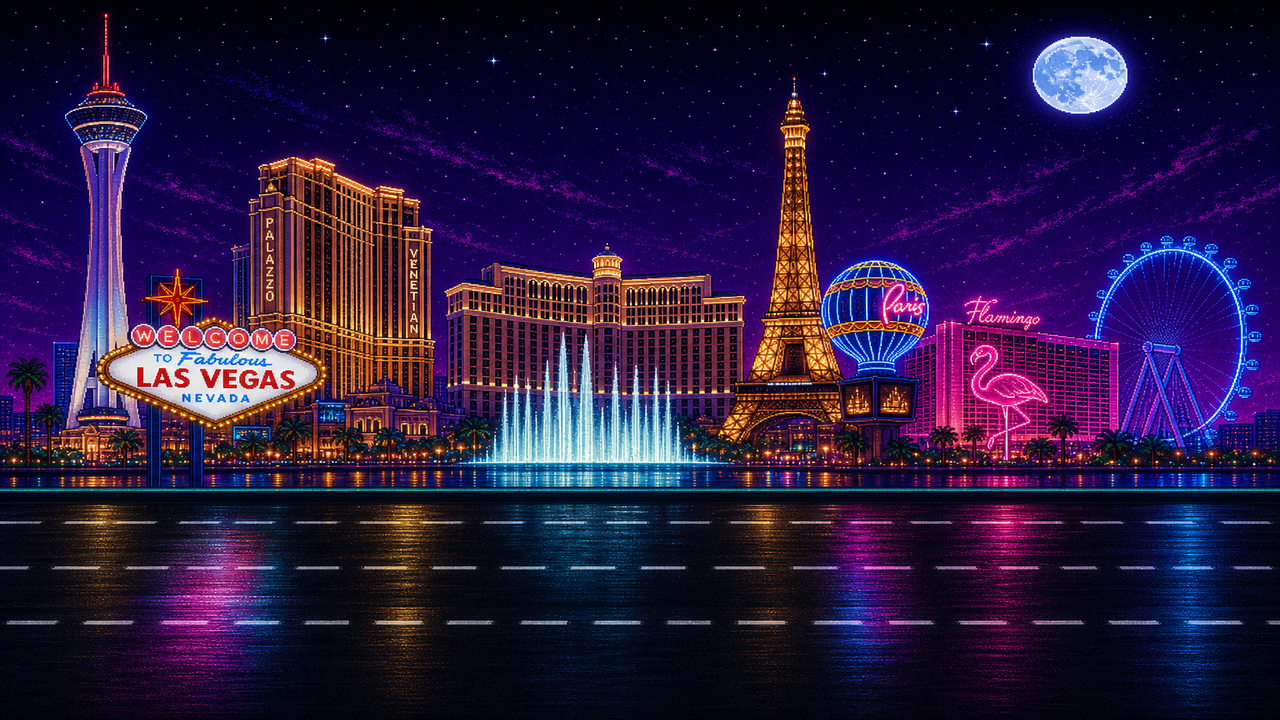
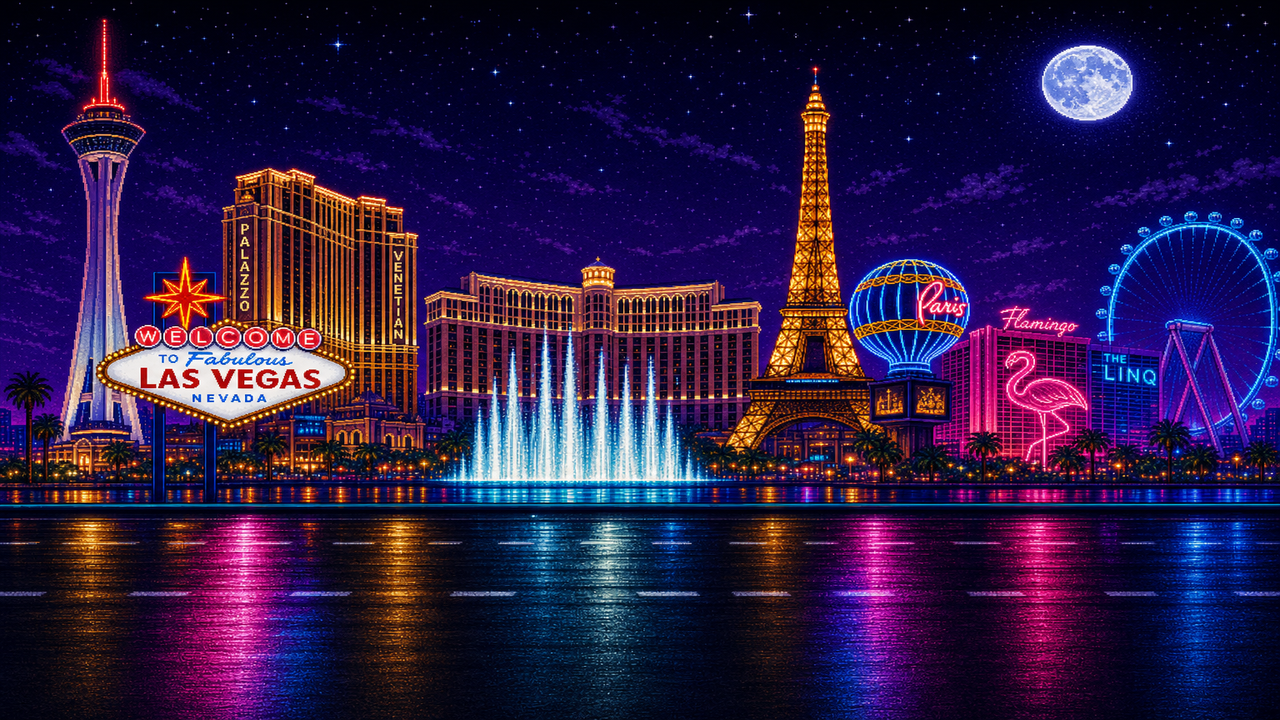
Tighten Vegas plate toward reference Strip mock
Refresh painted skyline with red Strat tip, stronger wet neon road
reflections, Bellagio jets, Paris balloon, Flamingo, and High Roller.

diff --git a/scripts/art/make_vegas_neon.py b/scripts/art/make_vegas_neon.py
@@ -2,14 +2,15 @@
 """
 Build city_vegas.png from the painted Strip plate (vegas_strip_source.png).
 
-The painted plate matches the neon Las Vegas reference mock and SF plate energy.
-Regenerate source via image tool if needed, then run this script to fit ROAD_TOP.
+Fits the painted reference-matched art to ROAD_TOP and adds wet neon road
+reflections so it reads like the SF plate + Vegas mock.
 """
 
 from __future__ import annotations
 
 from pathlib import Path
 
+import numpy as np
 from PIL import Image, ImageDraw, ImageEnhance, ImageFilter
 
 ROOT = Path(__file__).resolve().parents[2]
@@ -19,20 +20,72 @@ W, H = 1280, 720
 ROAD_TOP = 465
 
 
+def align_road(plate: Image.Image) -> Image.Image:
+    arr = np.array(plate)
+    road_y = ROAD_TOP
+    for y in range(400, 560):
+        mean = arr[y, :, :3].mean()
+        dark = (arr[y, :, 0] < 70).mean()
+        if dark > 0.7 and mean < 60:
+            road_y = y
+            break
+    if abs(road_y - ROAD_TOP) <= 6:
+        return plate
+    shift = ROAD_TOP - road_y
+    shifted = Image.new("RGBA", (W, H), (8, 6, 24, 255))
+    shifted.paste(plate, (0, shift))
+    return shifted
+
+
+def wet_reflections(plate: Image.Image) -> Image.Image:
+    """Streak skyline neon colors onto the asphalt (reference wet-road look)."""
+    layer = Image.new("RGBA", (W, H), (0, 0, 0, 0))
+    rd = ImageDraw.Draw(layer)
+    arr = np.array(plate)
+    fallback = [(255, 90, 180), (120, 200, 255), (255, 200, 70), (200, 80, 255)]
+    for i, x in enumerate(range(16, W, 16)):
+        col_strip = arr[max(0, ROAD_TOP - 45) : max(1, ROAD_TOP - 6), min(x, W - 1), :3]
+        if col_strip.size == 0:
+            c = fallback[i % len(fallback)]
+        else:
+            bri = col_strip.sum(axis=1)
+            c = tuple(int(v) for v in col_strip[int(bri.argmax())])
+            if sum(c) < 180:
+                c = fallback[i % len(fallback)]
+        y0 = ROAD_TOP + 18 + (i % 5) * 12
+        rd.ellipse([x - 26, y0, x + 26, y0 + 16], fill=(*c, 60))
+        rd.rectangle([x - 2, ROAD_TOP + 6, x + 2, H - 8], fill=(*c, 32))
+    return layer.filter(ImageFilter.GaussianBlur(4))
+
+
 def fit_plate(src: Image.Image) -> Image.Image:
     plate = src.convert("RGBA").resize((W, H), Image.Resampling.LANCZOS)
+    plate = align_road(plate)
+
+    # Punch skyline neon a touch
+    skyline = plate.crop((0, 0, W, ROAD_TOP))
+    skyline = ImageEnhance.Color(skyline).enhance(1.12)
+    skyline = ImageEnhance.Contrast(skyline).enhance(1.06)
+    plate.paste(skyline, (0, 0))
 
     road = plate.crop((0, ROAD_TOP, W, H))
-    road = ImageEnhance.Brightness(road).enhance(0.82)
-    road = road.filter(ImageFilter.GaussianBlur(1.1))
+    road = ImageEnhance.Brightness(road).enhance(0.78)
+    road = road.filter(ImageFilter.GaussianBlur(1.0))
     plate.paste(road, (0, ROAD_TOP))
 
     scroll_path = ROADS / "road_scroll.png"
     if scroll_path.exists():
         scroll = Image.open(scroll_path).convert("RGBA")
-        under = ImageEnhance.Brightness(scroll).enhance(0.7).filter(ImageFilter.GaussianBlur(1.1))
+        under = ImageEnhance.Brightness(scroll).enhance(0.65).filter(ImageFilter.GaussianBlur(1.0))
         painted = plate.crop((0, ROAD_TOP, W, H))
-        plate.paste(Image.blend(under, painted, 0.35), (0, ROAD_TOP))
+        plate.paste(Image.blend(under, painted, 0.4), (0, ROAD_TOP))
+
+    plate = Image.alpha_composite(plate, wet_reflections(plate))
+
+    # Soft red Strat tip bloom (reference cue)
+    red = Image.new("RGBA", (W, H), (0, 0, 0, 0))
+    ImageDraw.Draw(red).ellipse([70, 36, 155, 118], fill=(255, 60, 90, 48))
+    plate = Image.alpha_composite(plate, red.filter(ImageFilter.GaussianBlur(12)))
 
     d = ImageDraw.Draw(plate)
     d.rectangle([0, ROAD_TOP - 3, W, ROAD_TOP + 1], fill=(255, 200, 90, 170))
@@ -43,19 +96,19 @@ def main() -> None:
     BG.mkdir(parents=True, exist_ok=True)
     candidates = [
         BG / "vegas_strip_source.png",
+        Path("/opt/cursor/artifacts/assets/vegas-strip-plate-v2.png"),
         Path("/opt/cursor/artifacts/assets/vegas-strip-plate.png"),
     ]
     src_path = next((p for p in candidates if p.exists()), None)
     if src_path is None:
         raise SystemExit(
             "Missing painted Vegas source. Place vegas_strip_source.png in "
-            "public/assets/backgrounds/ (or artifacts/assets/vegas-strip-plate.png)."
+            "public/assets/backgrounds/."
         )
 
     src = Image.open(src_path)
-    # Persist canonical source inside the repo assets folder
-    fitted_src = src.convert("RGBA").resize((W, H), Image.Resampling.LANCZOS)
-    fitted_src.save(BG / "vegas_strip_source.png")
+    # Keep a canonical 1280x720 source in-repo
+    src.convert("RGBA").resize((W, H), Image.Resampling.LANCZOS).save(BG / "vegas_strip_source.png")
 
     plate = fit_plate(src)
     out = BG / "city_vegas.png"
